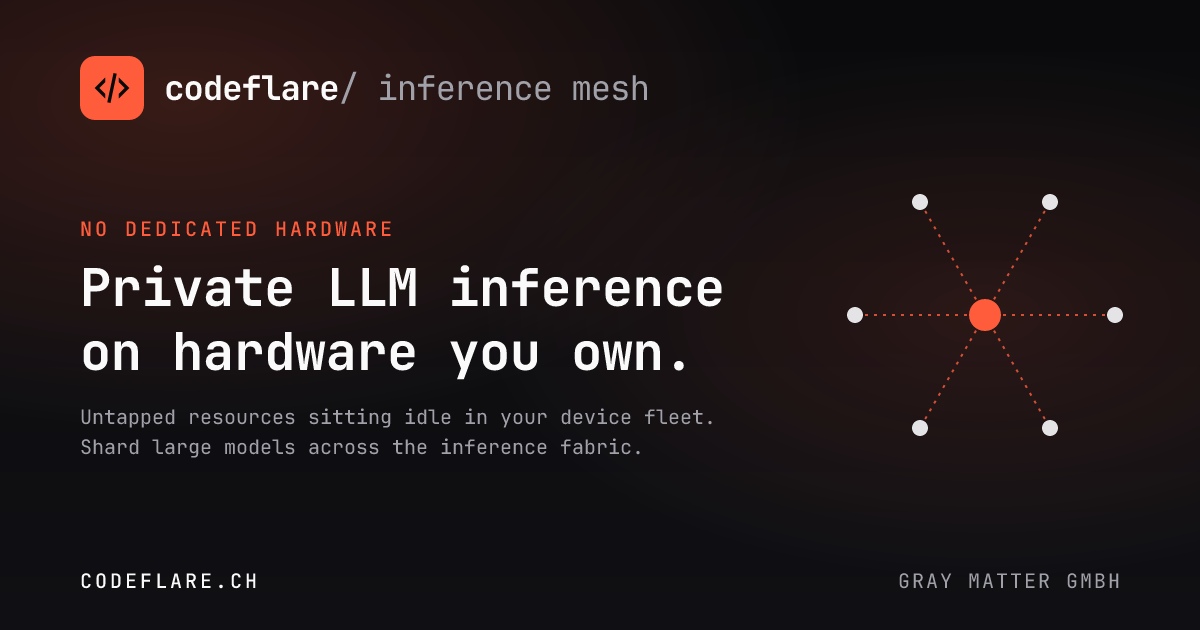
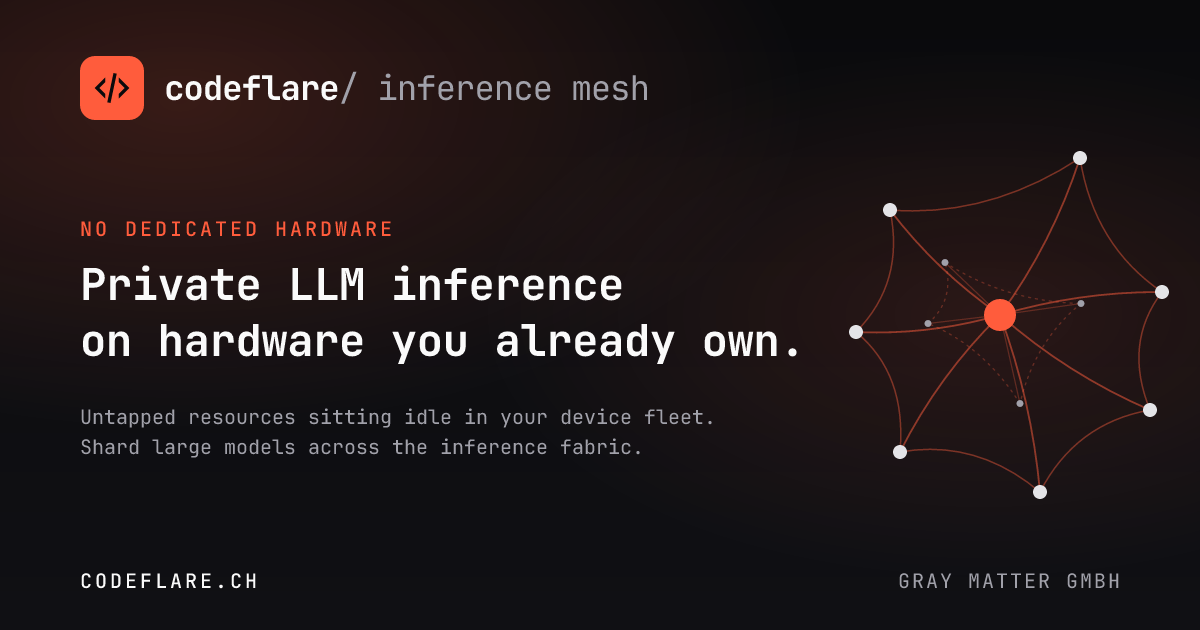
[code-reviewer] docs: curved-web OG graphic, headline 'already own', final spec nits
- Redraw the OG mesh motif as an irregular curved spider web whose threads
  bow away from the copy; headline now reads 'on hardware you already own.'
- Split REQ-SEC-012 AC4 into header-auth (AC4) and fail-fast (AC5), and add
  the reconcile-preserve / playground fail-fast changelog entry (spec MEDIUM x2).

diff --git a/sdd/spec/security.md b/sdd/spec/security.md
@@ -303,7 +303,8 @@ This domain covers credential separation, route-level auth, header filtering, to
 1. The mesh provisions its AI Gateway with authentication enabled, so provider-native requests require a valid AI Gateway token. <!-- @impl: packages/router-worker/src/cloudflare-api.ts::CloudflareGatewayClient.ensureGateway --> <!-- @test: packages/router-worker/src/router.test.ts (REQ-SEC-012 provisions an Authenticated Gateway and reconciles an existing open gateway) -->
 2. A gateway created before authentication was enforced is reconciled to authenticated on the next sync, preserving its existing cache and rate-limit settings. <!-- @impl: packages/router-worker/src/cloudflare-api.ts::CloudflareGatewayClient.ensureGateway --> <!-- @test: packages/router-worker/src/router.test.ts (REQ-SEC-012 provisions an Authenticated Gateway and reconciles an existing open gateway) -->
 3. An already-authenticated gateway is left unchanged on sync. <!-- @impl: packages/router-worker/src/cloudflare-api.ts::CloudflareGatewayClient.ensureGateway --> <!-- @test: packages/router-worker/src/router.test.ts (REQ-SEC-012 provisions an Authenticated Gateway and reconciles an existing open gateway) -->
-4. The operator playground authenticates to the gateway with an AI Gateway Run token in the `cf-aig-authorization` header, and fails fast with an actionable error when that token is absent. <!-- @impl: packages/router-worker/src/router.ts::handlePlaygroundChat --> <!-- @test: packages/router-worker/src/router.test.ts (REQ-SEC-012 playground authenticates to the gateway with cf-aig-authorization) --> <!-- @test: packages/router-worker/src/router.test.ts (REQ-SEC-012 fails fast when the gateway auth token is missing instead of an opaque upstream 401) -->
+4. The operator playground authenticates to the gateway with an AI Gateway Run token in the `cf-aig-authorization` header. <!-- @impl: packages/router-worker/src/router.ts::handlePlaygroundChat --> <!-- @test: packages/router-worker/src/router.test.ts (REQ-SEC-012 playground authenticates to the gateway with cf-aig-authorization) -->
+5. The playground fails fast with an actionable error when that AI Gateway token is absent. <!-- @impl: packages/router-worker/src/router.ts::handlePlaygroundChat --> <!-- @test: packages/router-worker/src/router.test.ts (REQ-SEC-012 fails fast when the gateway auth token is missing instead of an opaque upstream 401) -->
 
 **Constraints:** [CON-CF-001](constraints.md#con-cf-001-cloudflare-first-public-control-plane), [CON-SEC-001](constraints.md#con-sec-001-separate-credential-classes)
 

diff --git a/README.md b/README.md
@@ -1,7 +1,7 @@
 # Codeflare Inference Mesh
 
 <p align="center">
-  <img src="assets/og.png" alt="Codeflare Inference Mesh: private LLM inference on hardware you own." width="100%">
+  <img src="assets/og.png" alt="Codeflare Inference Mesh: private LLM inference on hardware you already own." width="100%">
 </p>
 
 [![CI](https://github.com/nikolanovoselec/codeflare-inference-mesh/actions/workflows/ci.yml/badge.svg?branch=main)](https://github.com/nikolanovoselec/codeflare-inference-mesh/actions/workflows/ci.yml)

diff --git a/sdd/spec/changes.md b/sdd/spec/changes.md
@@ -2,6 +2,7 @@
 
 ## 2026-07-04
 
+- The AI Gateway reconcile preserves an existing gateway's cache and rate-limit settings instead of resetting them to defaults, and the operator playground now fails fast with an actionable `503` when the gateway authorization token is missing rather than forwarding a request that bounces off the gateway as an opaque 401. ([REQ-SEC-012](security.md#req-sec-012-authenticated-ai-gateway))
 - Added [REQ-SEC-012](security.md#req-sec-012-authenticated-ai-gateway): the mesh now provisions its AI Gateway as an Authenticated Gateway and reconciles any gateway created before this to authenticated on the next sync, closing the hole where an open gateway forwarded the stored provider key to the router for any caller; the operator playground authenticates with `cf-aig-authorization`, and external clients of the route now need an AI Gateway Run token. ([REQ-SEC-012](security.md#req-sec-012-authenticated-ai-gateway), [REQ-GWY-005](gateway.md#req-gwy-005-gateway-selection-and-provisioning), [REQ-ADM-016](setup-admin.md#req-adm-016-operator-playground))
 - Fixed the node service crash-loop: the agent now resolves its config from an explicit `INFERENCE_MESH_CONFIG` path that the installer writes and the service reads under a system state directory, so a service started without the installing user's home directory finds the config the install step wrote instead of failing on a home-relative path. ([REQ-NODE-001](node-agent.md#req-node-001-cross-platform-service), [REQ-ADM-004](setup-admin.md#req-adm-004-one-line-installers))
 - The node agent now detects its Mesh IP by matching the Cloudflare WARP adapter by name and by the WARP CGNAT range on every platform, preferring the WARP address over LAN addresses, and fails with a clear message before claim when it cannot resolve one instead of sending an empty Mesh IP the router rejects. ([REQ-NODE-008](node-agent.md#req-node-008-mesh-ip-detection))